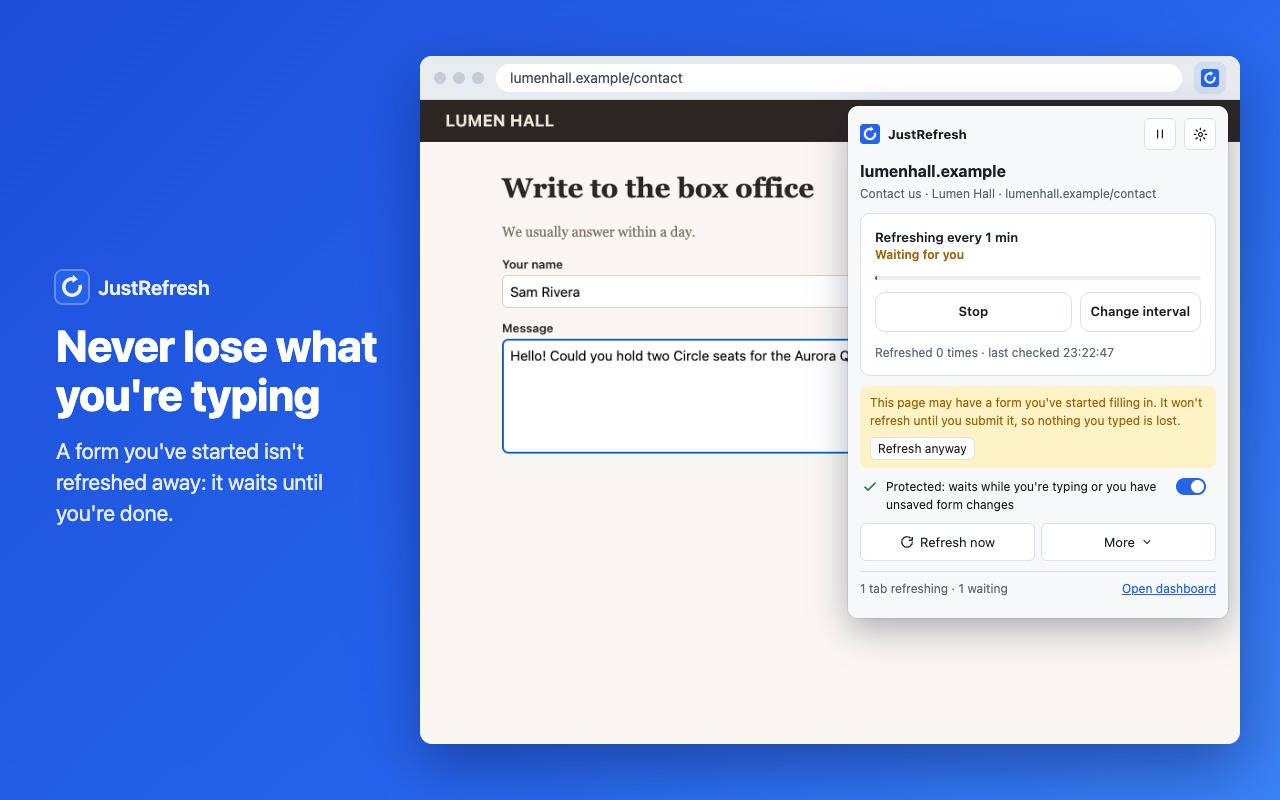
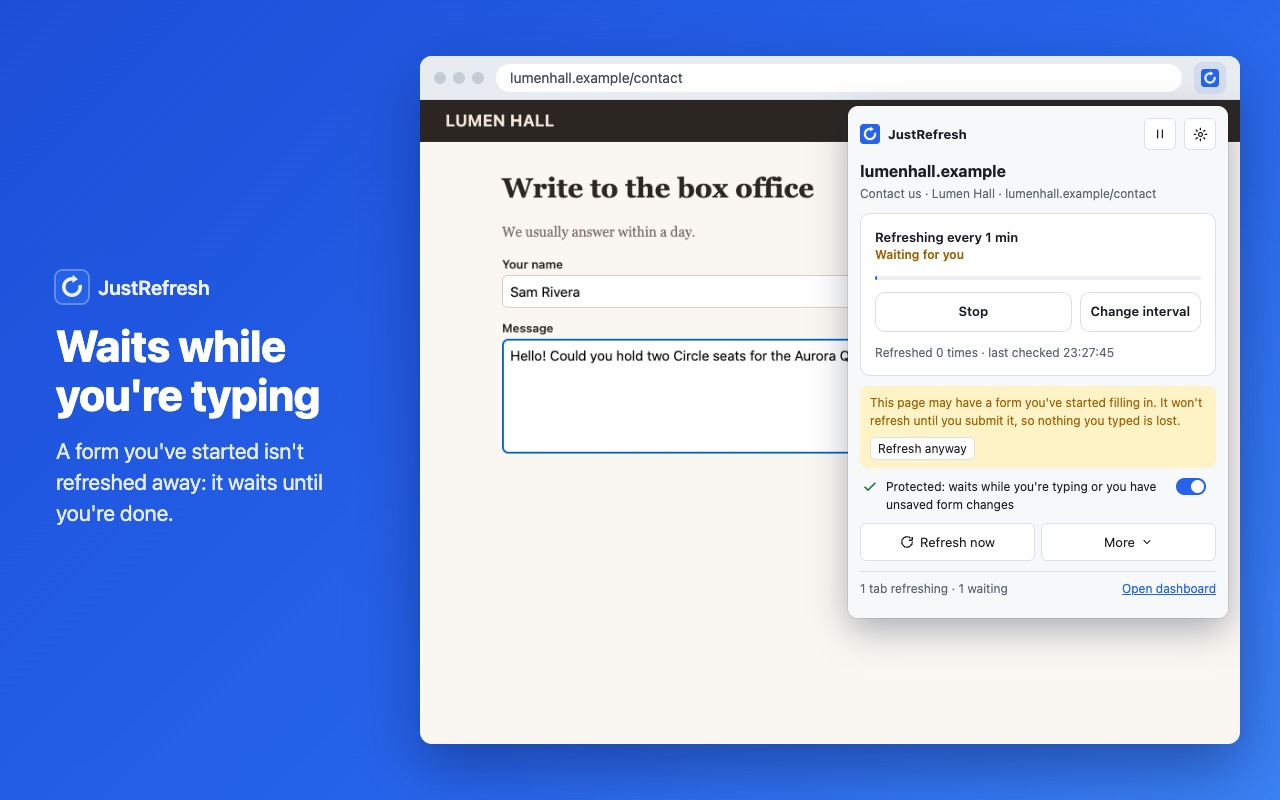
Store listing: second review, privacy policy as the code behaves
- Privacy policy: agents don't get page text, but a rule test tells them
  whether a page matches and which element; they can see the whole refresh
  history; what an AI app does with it is up to the app. Notifications,
  exports, the form-page marker and short-lived run state are described;
  nothing is sent to the developer, and to others only with the options.
- Listing: no "never lose" (protects what you're typing; waits while you
  type), access only when you ask, allowlisted extensions named, and the
  data-usage note no longer claims a store definition: "Web history" is the
  safer choice.
- Agent Integrations intro: "Their rules don't run on their own" (an agent
  can switch a rule off at once).
- Screenshot 3 "Waits while you're typing"; screenshot 4 lists the
  templates it shows.

Claude-Session: https://claude.ai/code/session_01XZehHzQ7RZv51ECxp7PV8V

Changed region(s): [[0.0312, 0.4062, 0.3125, 0.4688]]

diff --git a/src/ui/dashboard/AgentsView.tsx b/src/ui/dashboard/AgentsView.tsx
@@ -70,9 +70,9 @@ export function AgentsView() {
     <>
       <h1>Agent Integrations</h1>
       <p className="muted">
-        AI agents, such as AI apps on your computer or other browser extensions, can set up refresh rules for you. Nothing they do takes effect on its own:
-        rules they create are saved switched off, and switching a rule on or deleting it waits for your OK here, unless you choose to trust that agent. You can
-        take an agent's access away at any time.
+        AI agents, such as AI apps on your computer or other browser extensions, can set up refresh rules for you. Their rules don't run on their own: rules
+        they create are saved switched off, and switching a rule on or deleting it waits for your OK here, unless you choose to trust that agent. You can take
+        an agent's access away at any time.
       </p>
       <ErrorBox error={error ?? actionError} />
       <ApprovalsCard

diff --git a/CHROMEWEBSTORE.md b/CHROMEWEBSTORE.md
@@ -19,9 +19,9 @@ in the description, or the UI in the screenshots changes.
 **Description:**
 
 ```
-Refresh tabs on a timer, or until the thing you're waiting for appears, without ever losing what you're typing.
+Refresh tabs on a timer, or until the thing you're waiting for appears, without refreshing over what you're typing.
 
-NEVER LOSE YOUR WORK
+PROTECTS WHAT YOU'RE TYPING
 • Waits while you're typing, and won't refresh a form you've started filling in (you can switch this off).
 • Won't refresh a page you reached by submitting a form, so Chrome doesn't send it again (on sites you've given it access to).
 • Optionally waits while you move the mouse or scroll.
@@ -40,8 +40,8 @@ RULES AND TEMPLATES
 • A visual rule builder with a dry run before anything is saved, and JSON import/export.
 
 PRIVATE BY DESIGN
-• No account, no servers, no ads, no tracking. Everything stays in your browser, unless you switch on local webhooks or AI apps.
-• Asks for access to a site only when you turn it on there.
+• No account, no servers, no ads, no tracking. Everything stays in your browser, unless you switch on local webhooks, AI apps or allow an extension.
+• Asks for access to a site only when you ask: by turning refreshing on there, or with "Allow access to all sites".
 • Never records what you type or what's in forms.
 
 FOR AI AGENTS (OPTIONAL)
@@ -63,7 +63,7 @@ All generated from the real built extension: `npm run build && npm run store:ass
 | `store/icon-128.png`     | Store icon                                    | 128×128 (96×96 artwork, 16 px transparent padding) |
 | `store/screenshot-1.jpg` | Screenshot: refresh any tab in one tap        | 1280×800                                           |
 | `store/screenshot-2.jpg` | Screenshot: refresh until something appears   | 1280×800                                           |
-| `store/screenshot-3.jpg` | Screenshot: never lose what you're typing     | 1280×800                                           |
+| `store/screenshot-3.jpg` | Screenshot: waits while you're typing         | 1280×800                                           |
 | `store/screenshot-4.jpg` | Screenshot: start from a template             | 1280×800                                           |
 | `store/screenshot-5.jpg` | Screenshot: your AI app proposes, you approve | 1280×800                                           |
 | `store/promo-small.png`  | Small promo tile (optional)                   | 440×280, no text                                   |
@@ -79,7 +79,7 @@ All generated from the real built extension: `npm run build && npm run store:ass
 | Permission                                                       | Why it's needed                                                                                                                                                                                                                                                                                                                                          |
 | ---------------------------------------------------------------- | -------------------------------------------------------------------------------------------------------------------------------------------------------------------------------------------------------------------------------------------------------------------------------------------------------------------------------------------------------- |
 | `tabs`                                                           | Reads the address and title of open tabs to show them in the popup and dashboard and to decide which rule applies to which tab, and reloads tabs.                                                                                                                                                                                                        |
-| `storage`                                                        | Keeps the user's rules, settings, run state and a local history in the browser. Nothing leaves the browser.                                                                                                                                                                                                                                              |
+| `storage`                                                        | Keeps the user's rules, settings, run state and a local history, stored only in the browser and never sent to the developer.                                                                                                                                                                                                                             |
 | `alarms`                                                         | Schedules refreshes so they happen on time even while the background worker is asleep.                                                                                                                                                                                                                                                                   |
 | `notifications`                                                  | Tells the user when what they were waiting for appears, or when a watch stops.                                                                                                                                                                                                                                                                           |
 | `scripting`                                                      | Runs JustRefresh's own content script on sites the user allowed: to check whether they are typing or have unsaved form changes before a refresh, to check the page for the text or element a rule waits for, and, when a rule or the user asks, to highlight what it found, click an element, keep the scroll position, or let the user pick an element. |
@@ -96,9 +96,9 @@ All generated from the real built extension: `npm run build && npm run store:ass
 - it does not use or transfer user data for purposes unrelated to its single purpose;
 - it does not use or transfer user data to determine creditworthiness or for lending.
 
-Page content (for conditions) and activity (typing, unsaved forms) are read on the user's device to decide whether to refresh, and never sent anywhere. The optional webhook action sends a short message only to `localhost`, and only when the user switches webhooks on.
+Page content (for conditions) and activity (typing, unsaved forms) are read on the user's device to decide whether to refresh, and never sent to the developer. The optional webhook action sends a short message only to `localhost`, and only when the user switches webhooks on.
 
-A judgement call to make before submitting: AI apps (through the optional local bridge) or extensions the user approves can read the titles and addresses of open tabs, the user's rules and their history. That happens on the user's own computer, at the user's direction, and never reaches the developer, which is why "none" fits the form's idea of collection. To be more conservative, tick "Web history" and describe it as above. Either way, PRIVACY.md says so.
+A judgement call to make before submitting: AI apps (through the optional local bridge) or extensions the user approves can read the titles and addresses of open tabs, the user's rules and their history. That happens on the user's own computer, at the user's direction, and never reaches the developer, so "none" is arguable; but the store's User Data policy also covers passing data to third parties, which an AI app can be, so ticking "Web history" is the safer choice. Either way, PRIVACY.md says so.
 
 **Privacy policy URL:** https://github.com/marcykay404/JustRefresh/blob/main/PRIVACY.md
 

diff --git a/PRIVACY.md b/PRIVACY.md
@@ -1,15 +1,28 @@
 # JustRefresh privacy policy
 
 JustRefresh is a browser extension that refreshes tabs for you. It has no
-account, no servers and no analytics.
+account, no servers and no analytics. Nothing is sent to the developer, and
+nothing is sent to anyone else unless you switch on one of the options under
+[What leaves your browser](#what-leaves-your-browser).
 
 ## What it stores, and where
 
-Your rules, settings, which tabs are refreshing, a history of recent refreshes,
-and a log of what AI agents asked it to do are stored in your browser
-(`chrome.storage`), on your device. Nothing is sent to the developer or anyone
-else. You can export it or reset everything in Dashboard → Settings, clear the
-history on the History page, and uninstalling the extension removes it all.
+Your rules, settings, which tabs are refreshing, a history of recent refreshes
+(which rule ran on which page, and when), and a log of what AI agents asked it
+to do are stored in your browser (`chrome.storage`), on your device. The state
+of running tabs is kept only until Chrome closes.
+
+- Clear the history on the History page, and the agent log in Agent
+  Integrations; reset everything in Dashboard → Settings. Uninstalling the
+  extension removes all of it.
+- **Export** in Settings saves your rules, exclusions and (if you choose)
+  settings as a file in your downloads. That file is yours: uninstalling
+  doesn't remove it.
+- **Notifications** show the rule's name and, by default, the page's address.
+  Your system may keep them in its notification history.
+- To protect pages reached by submitting a form, JustRefresh leaves a small
+  marker (a time and the page address) in that site's own session storage,
+  which the browser clears when the tab closes.
 
 ## What it reads
 
@@ -17,9 +30,9 @@ history on the History page, and uninstalling the extension removes it all.
   the popup and dashboard.
 - **Pages you allow it on:** whether you're typing or have unsaved form
   changes (never what you typed), and the text or elements your rules look
-  for. This is checked on your device and never sent anywhere. (A "content
-  changed" rule keeps a short fingerprint of the part of the page it watches,
-  in your browser, to compare with the next load.)
+  for. This is checked on your device. (A "content changed" rule keeps a short
+  fingerprint of the part of the page it watches, in your browser, to compare
+  with the next load.)
 
 It asks for access to a site when you turn refreshing on there (or for several
 selected tabs at once), and for every site only if you press "Allow access to
@@ -31,15 +44,20 @@ time.
 Nothing, unless you switch on one of these yourself:
 
 - **Local webhook:** a rule can send a short message to a program on your own
-  computer (`localhost` only).
+  computer (`localhost` only): the rule, the tab and what it found, and the
+  page's address only if the rule asks for it.
 - **AI apps and extensions you approve:** an optional bridge on your computer
   lets AI apps manage rules, and extensions you add to the allowlist in Agent
   Integrations can too. Depending on what you let each one do, they can see
   the titles and addresses of your open tabs (query strings hidden unless you
-  allow them), your rules, and their history; never page content. If you
-  switch on "Also write each app's events to a file", events about an app's
-  own rules are also written to a file in the `.justrefresh` folder in your
-  home folder, readable only by your account.
+  allow them), your rules, and the refresh history (every rule's pages and
+  times). They don't get page text, though testing a rule on a tab tells them
+  whether the page matches it and which element it found. What an AI app or
+  extension does with this is up to it: many AI apps send what they read to
+  their own online service.
+- If you switch on "Also write each app's events to a file", events about an
+  app's own rules are also written to a file in the `.justrefresh` folder in
+  your home folder, readable only by your account.
 - **Links you click**, such as "Buy me a coffee" or "Source code", open those
   websites in a new tab, like any link.
 
